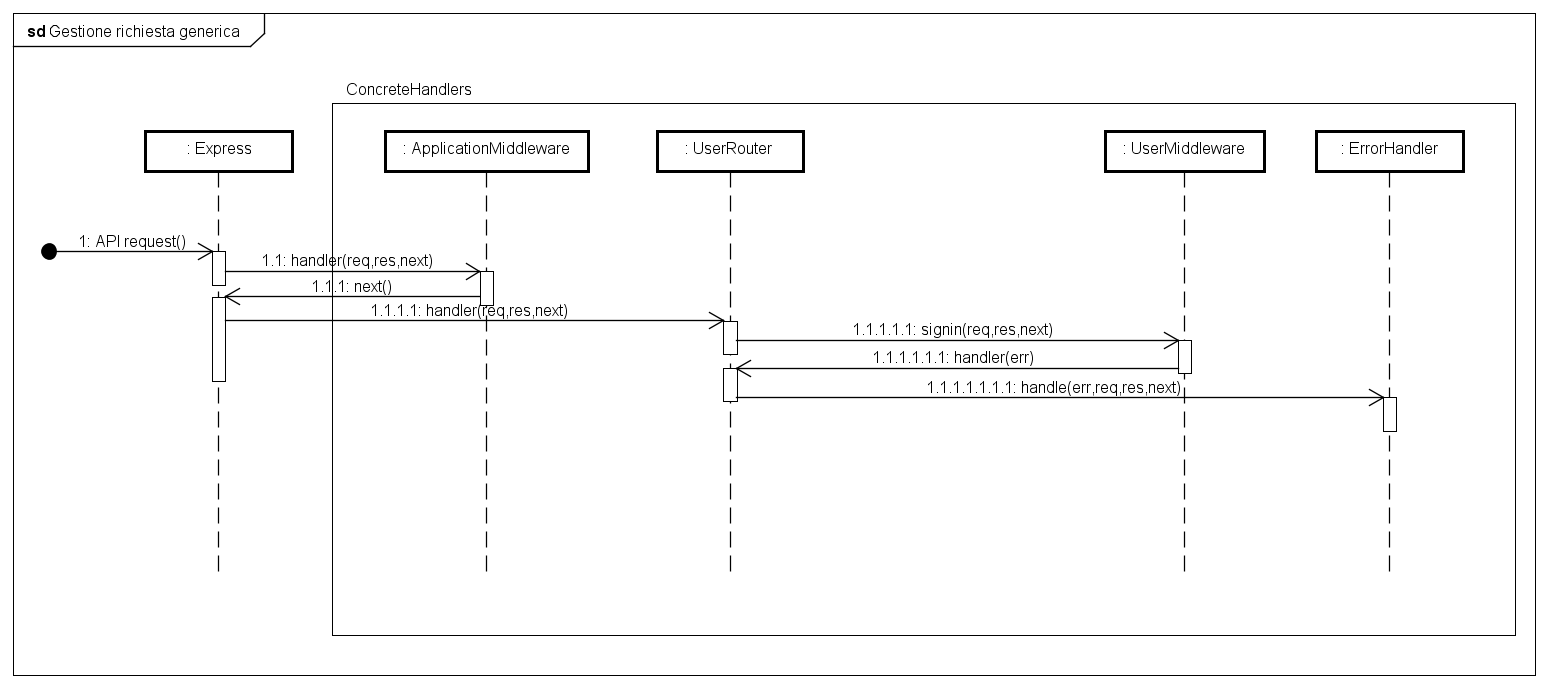
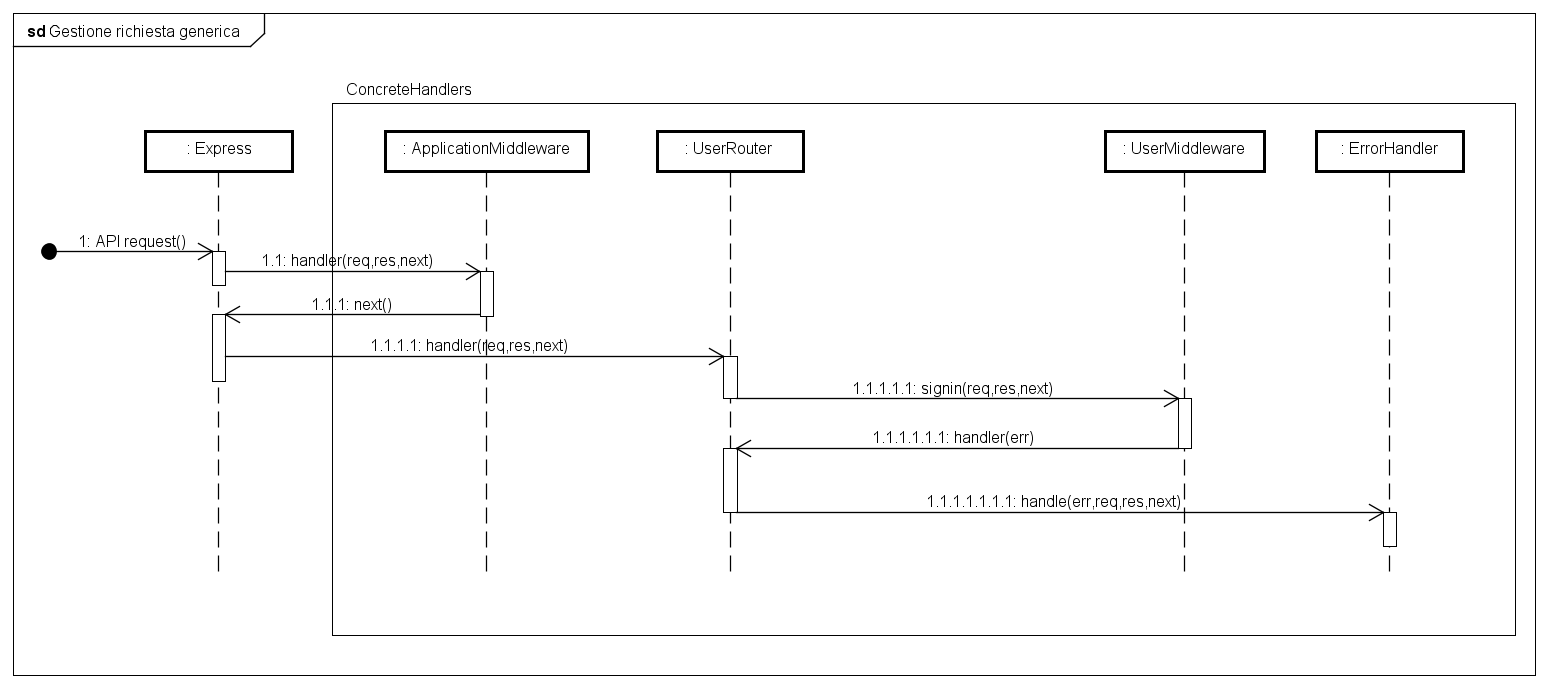
Avanzamento DiagrammiDiSequenza

Changed region(s): [[0.124, 0.3962, 0.8986, 0.6096], [0.4648, 0.701, 0.8986, 0.762], [0.4648, 0.6096, 0.7747, 0.6705]]

diff --git a/RP/DefinizioneDiProdotto/sezioni/Back-End/DiagrammiDiSequenza/RichiesteREST/Passport.tex b/RP/DefinizioneDiProdotto/sezioni/Back-End/DiagrammiDiSequenza/RichiesteREST/Passport.tex
@@ -1,17 +1,53 @@
 \paragraph{POST /:lang/signup}
 \begin{itemize}
 \item \textbf{Successo}
-% descrizione diagramma e UML
+Questo scenario rappresenta il successo di una richiesta di registrazione che impone, come vincolo per poter essere effettuata, che l'utente non sia autenticato e non possieda già un account nel sistema. La registrazione dell'utente nel sistema viene effettuata tramite \textit{Passport\ped{G}} creando ed inserendo un nuovo \textit{document} all'interno della collection User.
+
+\label{Procedura di registrazione}
+\begin{figure}[ht]
+	\centering
+	\includegraphics[scale=0.40]{UML/DiagrammiDiSequenza/Back-end/POST__lang_signup_success.png}
+	\caption{POST /:lang/signup}
+\end{figure}
+\FloatBarrier
+
 \item \textbf{Fallimento}
-% descrizione diagramma e UML
+Quando un utente effettua una richiesta di registrazione e cerca di inserire dei dati già presenti del \textit{database\ped{G}} viene sollevato un errore. Tale scenario rappresenta il fallimento di una richiesta di registrazione che impone, come vincolo per poter essere effettuata, che l'utente non sia autenticato e non possieda già un account nel sistema. In questo caso il modulo \texttt{AuthenticationController} invia \texttt{next(error)} per il fallimento di tale vincolo al router il quale avrà compito di reinstradarlo (indirizzandolo verso \texttt{ErrorHandler}).
+
+\label{Fallimento della procedura di registrazione}
+\begin{figure}[ht]
+	\centering
+	\includegraphics[scale=0.40]{UML/DiagrammiDiSequenza/Back-end/POST__lang_signup_failure.png}
+	\caption{Fallimento della procedura di registrazione}
+\end{figure}
+\FloatBarrier
+
 \end{itemize}
 
 \paragraph{POST /:lang/signin}
 \begin{itemize}
 \item \textbf{Successo}
-% descrizione diagramma e UML
+La maggior parte delle richieste alle risorse rese disponibili dalle \textit{API\ped{G}} del \textit{server\ped{G}} possono essere effettuate solamente da un \textit{utente autenticato}. Tale scenario rappresenta il successo di una richiesta di \textit{login}, che impone come vincolo per poter essere effettuata, che l'utente abbia un account nel sistema, ma che non sia già autenticato. La \textit{login} dell'utente viene effettuata tramite \textit{Passport\ped{G}}.
+
+\label{Procedura di autenticazione}
+\begin{figure}[ht]
+	\centering
+	\includegraphics[scale=0.40]{UML/DiagrammiDiSequenza/Back-end/POST__lang_signin_success.png}
+	\caption{POST /:lang/signin}
+\end{figure}
+\FloatBarrier
+ 
 \item \textbf{Fallimento}
-% descrizione diagramma e UML
+La maggior parte delle richieste alle risorse rese disponibili dalle \textit{API\ped{G}} del \textit{server\ped{G}} possono essere effettuate solamente da un \textit{utente autenticato}. Tale scenario rappresenta il fallimento della richiesta di \textit{login}, che può avvenire nel caso sia stia cercando di autenticare un utente non registrato. In questo caso il modulo \texttt{AuthenticationController} invia \texttt{next(error)} al router, il quale avrà compito di reinstradarlo (indirizzandolo verso \texttt{ErrorHandler}).
+
+\label{Fallimento della procedura di autenticazione}
+\begin{figure}[ht]
+	\centering
+	\includegraphics[scale=0.40]{UML/DiagrammiDiSequenza/Back-end/POST__lang_signin_failure.png}
+	\caption{Fallimento della procedura di autenticazione}
+\end{figure}
+\FloatBarrier
+
 \end{itemize}
 
 \paragraph{POST /:lang/signout}

diff --git a/RP/DefinizioneDiProdotto/sezioni/Back-End/DiagrammiDiSequenza/GestioneGeneraleDelleRichieste.tex b/RP/DefinizioneDiProdotto/sezioni/Back-End/DiagrammiDiSequenza/GestioneGeneraleDelleRichieste.tex
@@ -5,8 +5,8 @@ Segue un elenco ordinato dei \textit{middleware\ped{G}} utilizzati, l'ordine di 
 	\item \texttt{express.compress()}: \textit{middleware\ped{G}} per comprimere ccon il formato \texttt{gzip} le comunicazioni;
 	\item \texttt{express.logger()}: \textit{middleware\ped{G}} utilizzato per registrare un log delle richieste, utile per fare il \textit{debugging\ped{G}} dell'applicazione;
 	\item \texttt{express.json()}: \textit{middleware\ped{G}} che estrae dalla richiesta i parametri che sono nel formato \textit{JSON\ped{G}};
-	\item \texttt{express.urlencoded()}: \textit{middleware\ped{G}} che estrae dalla richiesta i parametri di tipo \texttt{www-form-encoded}, questi possono essere inviati ad esempio conun richiesta POST;
-	\item \texttt{express.methodOverride()}: \textit{middleware\ped{G}} utilizzato per permettere anche ai vecchi \textit{browser\ped{G}} di avere un modo per fare richieste PUT e DELETE;
+	\item \texttt{express.urlencoded()}: \textit{middleware\ped{G}} che estrae dalla richiesta i parametri di tipo \\ \texttt{www-form-encoded}, questi possono essere inviati ad esempio conun richiesta POST;
+	\item \texttt{express.methodOverride()}: \textit{middleware\ped{G}} utilizzato per permettere anche ai vecchi \\ \textit{browser\ped{G}} di avere un modo per fare richieste PUT e DELETE;
 	\item \texttt{express.cookieParser()}: \textit{middleware\ped{G}} che analizza i \textit{cookie\ped{G}};
 	\item \texttt{express.cookieSession()}: \textit{middleware\ped{G}} che permette di memorizzare i record della sessione utente per mantenerne lo stato di login;
 	\item \texttt{express.ruote()}: \textit{middleware\ped{G}} che permette di configurare un singolo \textit{ruote\ped{G}}, nell'organizzazione interna \texttt{QuizziPedia::Back-End::App::Routers} ogni modulo router contiene i routers logicamente correlati;
@@ -23,7 +23,7 @@ Nel seguente \textit{diagramma di sequenza} viene rappresentata una generica ric
 \label{Gestione richiesta generica}
 \begin{figure}[ht]
 	\centering
-	\includegraphics[scale=0.45]{UML/DiagrammiDiSequenza/Back-end/GestioneRichiestaGenerica.png}
+	\includegraphics[scale=0.39]{UML/DiagrammiDiSequenza/Back-end/GestioneRichiestaGenerica.png}
 	\caption{Gestione di una richiesta dal client}
 \end{figure}
 \FloatBarrier

diff --git a/RP/DefinizioneDiProdotto/sezioni/DiagrammiDiSequenza.tex b/RP/DefinizioneDiProdotto/sezioni/DiagrammiDiSequenza.tex
@@ -1,3 +1,4 @@
+\newpage
 \section{Diagrammi di sequenza}
 \input{sezioni/Back-End/DiagrammiDiSequenza/Back-End.tex}
 \input{sezioni/Back-End/DiagrammiDiSequenza/GestioneGeneraleDelleRichieste.tex}
